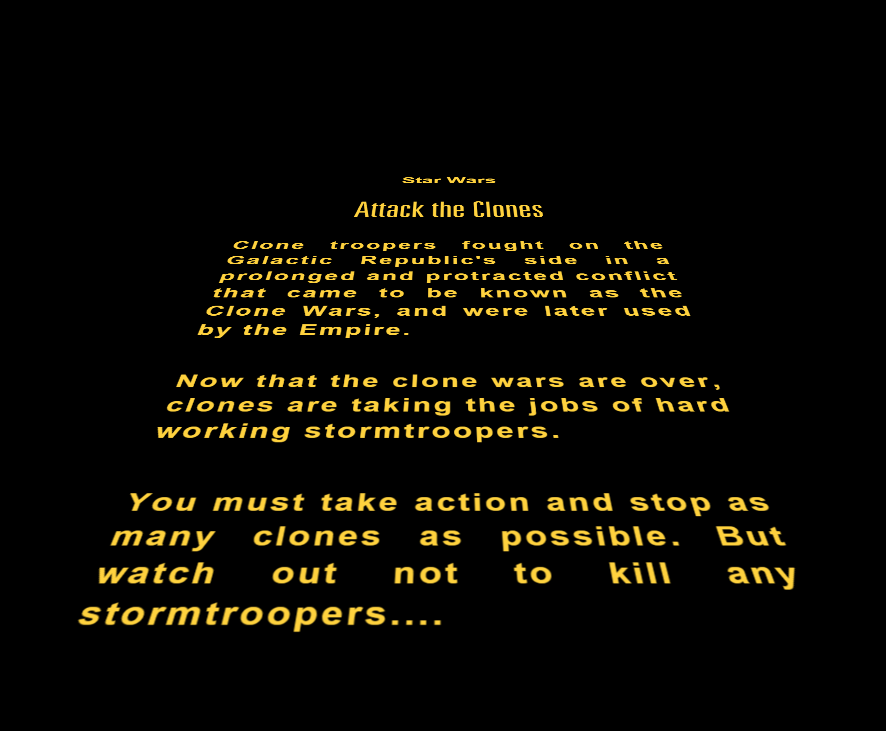
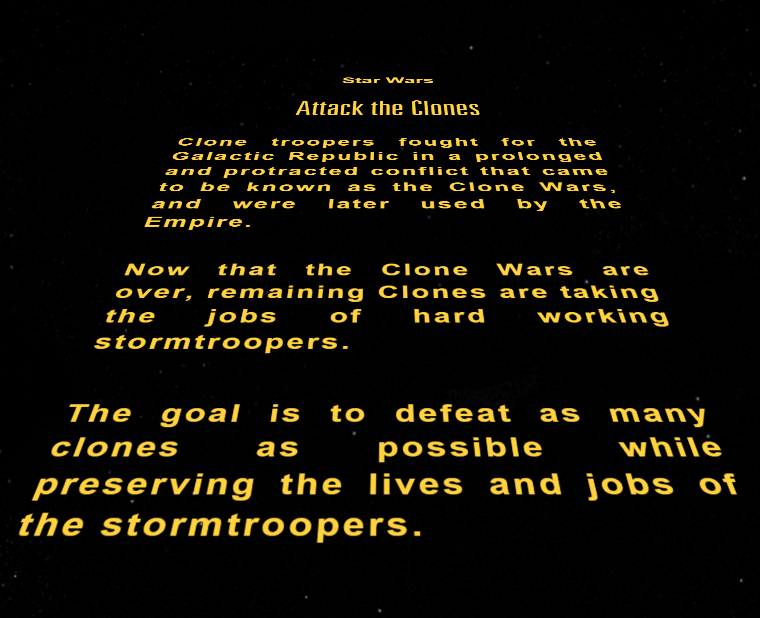
scaled as divs

Changed region(s): [[0.1211, 0.2152, 0.8776, 0.6149], [0.0303, 0.6456, 0.9684, 0.8916], [0.3934, 0.123, 0.6355, 0.1845]]

diff --git a/index.html b/index.html
@@ -14,19 +14,30 @@
             background-color: black;
 			font-family: "arial,sans-serif";
         }
+        img {
+            max-width: 100%;
+            display: inherit;
+            margin-left: auto;
+            margin-right: auto;
+
+        }
+
+
 
         .intro {
             background-color: black;
             width: 100%;
-            height: 50%;
+            height: 60%;
             position: absolute;
+                        background-image:url(img/crawl.PNG);
+            background-size: 100% 100%;
         }
 
         .left {
             float:left;
             width:50%;
             position: absolute;
-            top: 50%;
+            top: 60%;
             bottom: 0px;
             background-image:url(img/homeLeft.png);
             background-size: 100% 100%;
@@ -36,7 +47,7 @@
             float:right;
             width:50%;
             position: absolute;
-            top: 50%;
+            top: 60%;
             bottom: 0px;
             margin-left: 50%;
             background-image:url(img/homeRight.png);
@@ -58,15 +69,16 @@
 <body>
     <div class="container">
 
-    <table>
-      <tr>
-        <td colspan="2"><img src="img/crawl.PNG"></td>
-      </tr>
-      <tr>
-        <td class="left"><h1><a href="cont.html">Continuous <br>Game Play</a></h1></td>
-        <td class="right"><a href="limit.html"><h1>10 Second<br>Challenge</h1></td>
-      </tr>
-    </table>
+        <div class="intro">
+
+        </div>
+
+            <div class="left">
+                <h1><a href="cont.html">Continuous <br>Game Play</a></h1>
+            </div>
+            <div class="right">
+               <h1><a href="limit.html">10 Second<br>Challenge</a></h1>
+            </div>
 
 
     </div>
